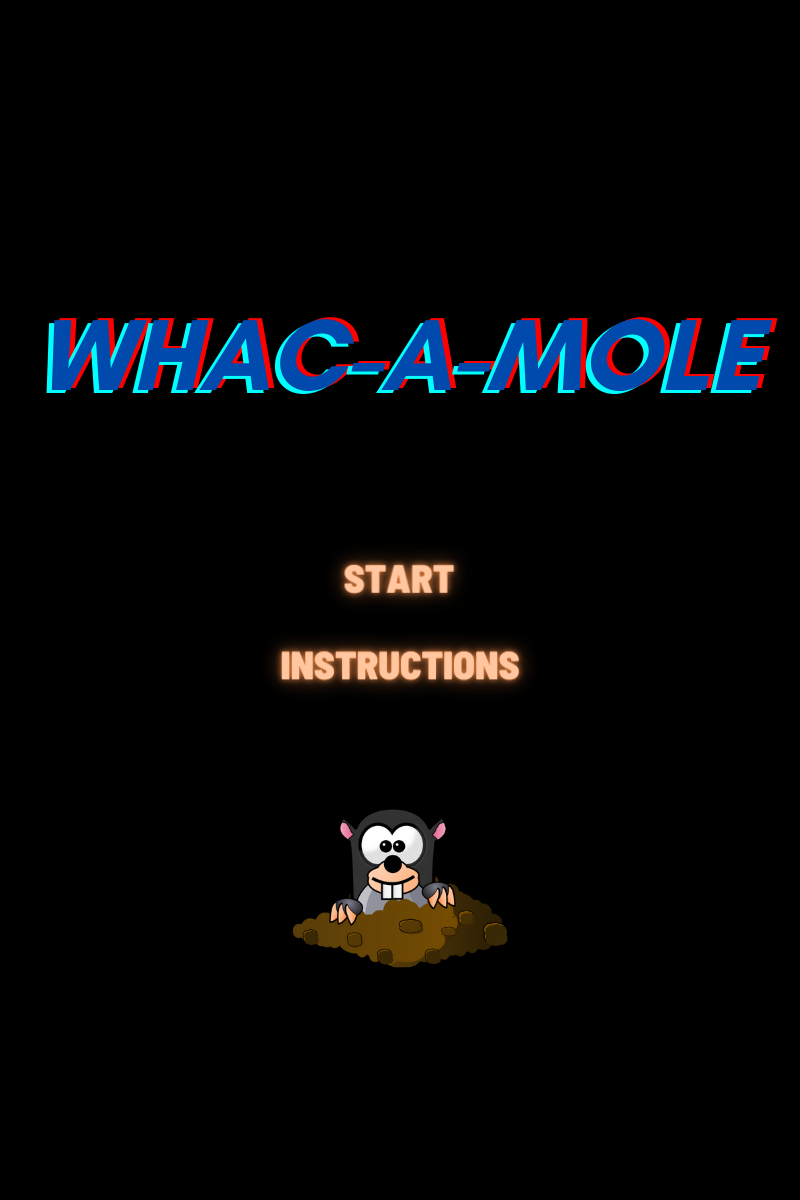
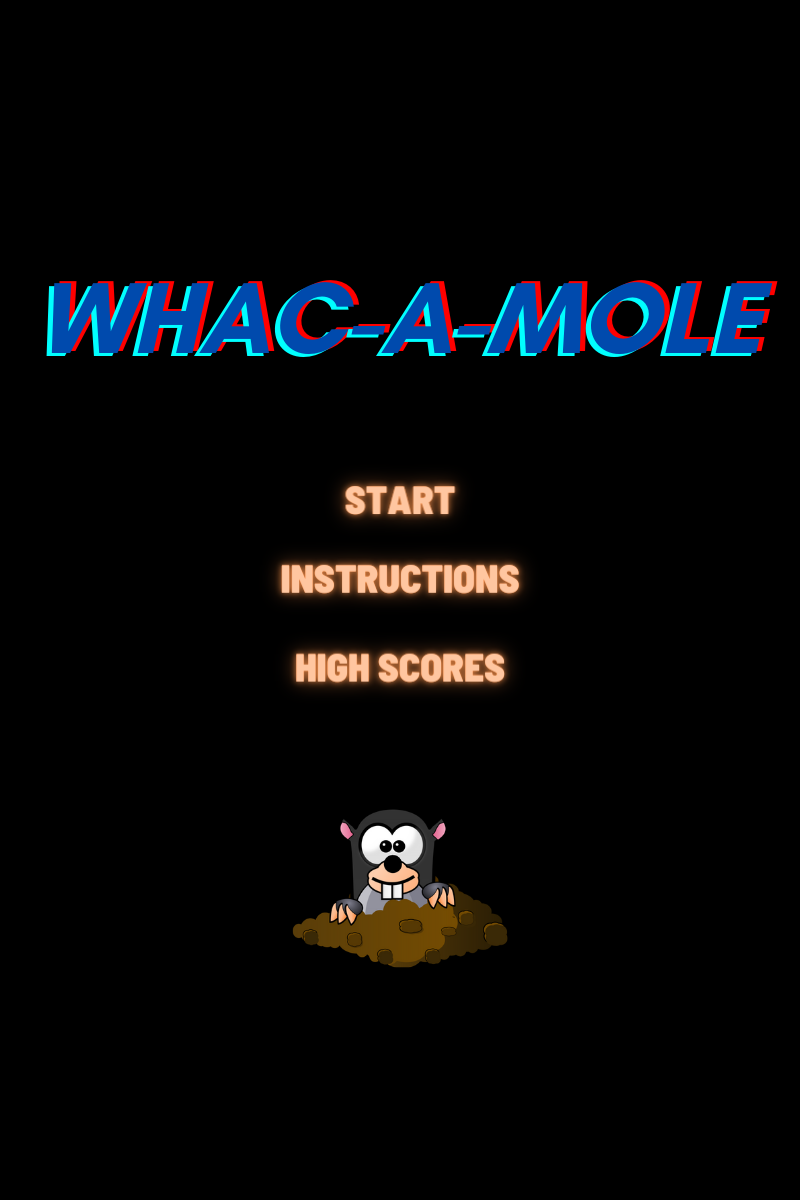
Add high scores page

Changed region(s): [[0.0625, 0.2158, 0.9688, 0.3392], [0.3438, 0.4625, 0.6562, 0.5858], [0.4062, 0.4008, 0.5938, 0.4317]]

diff --git a/public/scripts/p1Scripts/p1WhacAMole.js b/public/scripts/p1Scripts/p1WhacAMole.js
@@ -9,6 +9,7 @@ var holeImg;
 var bgImg;
 var startScreenImg;
 var gameOverScreenImg;
+var highScoresScreenImg;
 
 var inputBox;
 var submitBtn;
@@ -24,7 +25,7 @@ var numOfHoles = 6;
 var randomMole; // Initialized when creating new holes and then updates everytime the mole is hit or when it hides.
 var molePicked = false; // The purpose of this is to ensure that the mole is set only once while it's still active.
 
-var screen = 0; // Screen 0 = Start screen, 1 = start game, 2 = game over, 3 = tutorial Mode
+var screen = 0; // Screen 0 = Start screen, 1 = start game, 2 = game over, 3 = tutorial Mode, 4 = players' high scores 
 
 var tutorialMode = false;
 var messageTime = 0;
@@ -56,6 +57,7 @@ function preload() {
     moleImg = loadImage('../images/project 1/mole.png'); // Load the image of the mole
     startScreenImg = loadImage('../images/project 1/startScreen.png'); // Load game start screen image
     gameOverScreenImg = loadImage('../images/project 1/gameOverScreen.png'); // Load game over screen image
+    highScoresScreenImg = loadImage('../images/project 1/HighScoresScreen.png'); // Load game over screen image
 }
 
 function setup() {
@@ -92,6 +94,8 @@ function draw() {
         gameOver();
     } else if (screen == 3) {
         tutorial();
+    } else if (screen == 4) {
+        highScores();
     }
 }
 ///////////////////////////////////////////////////////////////////////////////////
@@ -324,14 +328,25 @@ function startScreen() {
         "topRightY": 0
     }
 
+    let highScoreBtn = {
+        "bottomLeftX": 0,
+        "bottomLeftY": 0,
+        "bottomRightX": 0,
+        "bottomRightY": 0,
+        "topLeftX": 0,
+        "topLeftY": 0,
+        "topRightX": 0,
+        "topRightY": 0
+    }
+
     startBtn.bottomRightX = width / 2 + width / 2 * 0.13;
-    startBtn.bottomRightY = height / 2;
+    startBtn.bottomRightY = height / 2 - height / 2 * 0.13;
     startBtn.topRightX = width / 2 + width / 2 * 0.13;
-    startBtn.topRightY = height / 2 - height / 2 * 0.07;
+    startBtn.topRightY = height / 2 - height / 2 * 0.20;
     startBtn.bottomLeftX = width / 2 - width / 2 * 0.14;
-    startBtn.bottomLeftY = height / 2;
+    startBtn.bottomLeftY = height / 2 - height / 2 * 0.13;
     startBtn.topLeftX = width / 2 - width / 2 * 0.14;
-    startBtn.topLeftY = height / 2 - height / 2 * 0.07;
+    startBtn.topLeftY = height / 2 - height / 2 * 0.20;
 
     //fill(255, 0, 0);
     //rect(startBtn.bottomRightX, startBtn.bottomRightY, 10, 10);
@@ -341,6 +356,43 @@ function startScreen() {
     //rect(startBtn.bottomLeftX, startBtn.bottomLeftY, 10, 10);
     //fill(0, 0, 255);
     //rect(startBtn.topLeftX, startBtn.topLeftY, 10, 10);
+
+    instructionsBtn.bottomRightX = width / 2 + width / 2 * 0.30;
+    instructionsBtn.bottomRightY = height / 2;
+    instructionsBtn.topRightX = width / 2 + width / 2 * 0.30;
+    instructionsBtn.topRightY = height / 2 - height / 2 * 0.07;
+    instructionsBtn.bottomLeftX = width / 2 - width / 2 * 0.31;
+    instructionsBtn.bottomLeftY = height / 2 ;
+    instructionsBtn.topLeftX = width / 2 - width / 2 * 0.31;
+    instructionsBtn.topLeftY = height / 2 - height / 2 * 0.07;
+
+    //fill(255, 0, 0);
+    //rect(instructionsBtn.bottomRightX, instructionsBtn.bottomRightY, 10, 10);
+    //fill(255, 255, 0);
+    //rect(instructionsBtn.topRightX, instructionsBtn.topRightY, 10, 10);
+    //fill(255, 0, 255);
+    //rect(instructionsBtn.topLeftX, instructionsBtn.topLeftY, 10, 10);
+    //fill(0, 0, 255);
+    //rect(instructionsBtn.bottomLeftX, instructionsBtn.bottomLeftY, 10, 10);
+
+    highScoreBtn.bottomRightX = width / 2 + width / 2 * 0.27;
+    highScoreBtn.bottomRightY = height / 2 + height / 2 * 0.13;
+    highScoreBtn.topRightX = width / 2 + width / 2 * 0.27;
+    highScoreBtn.topRightY = height / 2 + height / 2 * 0.08;
+    highScoreBtn.bottomLeftX = width / 2 - width / 2 * 0.31;
+    highScoreBtn.bottomLeftY = height / 2 + height / 2 * 0.13;
+    highScoreBtn.topLeftX = width / 2 - width / 2 * 0.31;
+    highScoreBtn.topLeftY = height / 2 + height / 2 * 0.08;
+
+    //fill(255, 0, 0);
+    //rect(highScoreBtn.bottomRightX, highScoreBtn.bottomRightY, 10, 10);
+    //fill(255, 255, 0);
+    //rect(highScoreBtn.topRightX, highScoreBtn.topRightY, 10, 10);
+    //fill(255, 0, 255);
+    //rect(highScoreBtn.topLeftX, highScoreBtn.topLeftY, 10, 10);
+    //fill(0, 0, 255);
+    //rect(highScoreBtn.bottomLeftX, highScoreBtn.bottomLeftY, 10, 10);
+
 
     // If the start button is clicked.
     if (screen == 0 && mouseIsPressed && mouseX >= startBtn.topLeftX && mouseX <= startBtn.topRightX
@@ -352,24 +404,6 @@ function startScreen() {
         startTime = gameTimeLimit; // The time when the game has started. Countdown start time.
     }
 
-    instructionsBtn.bottomRightX = width / 2 + width / 2 * 0.30;
-    instructionsBtn.bottomRightY = height / 2 + height / 2 * 0.13;
-    instructionsBtn.topRightX = width / 2 + width / 2 * 0.30;
-    instructionsBtn.topRightY = height / 2 + height / 2 * 0.08;
-    instructionsBtn.bottomLeftX = width / 2 - width / 2 * 0.31;
-    instructionsBtn.bottomLeftY = height / 2 + height / 2 * 0.13;
-    instructionsBtn.topLeftX = width / 2 - width / 2 * 0.31;
-    instructionsBtn.topLeftY = height / 2 + height / 2 * 0.08;
-
-    //fill(255, 0, 0);
-    //rect(instructionsBtn.bottomRightX, instructionsBtn.bottomRightY, 10, 10);
-    //fill(255, 255, 0);
-    //rect(instructionsBtn.topRightX, instructionsBtn.topRightY, 10, 10);
-    //fill(255, 0, 255);
-    //rect(instructionsBtn.topLeftX, instructionsBtn.topLeftY, 10, 10);
-    //fill(0, 0, 255);
-    //rect(instructionsBtn.bottomLeftX, instructionsBtn.bottomLeftY, 10, 10);
-
     // If the instructions button is clicked
     if (screen == 0 && mouseIsPressed && mouseX >= instructionsBtn.topLeftX && mouseX <= instructionsBtn.topRightX
         && mouseY >= instructionsBtn.topLeftY && mouseY <= instructionsBtn.bottomLeftY) {
@@ -379,6 +413,15 @@ function startScreen() {
         screen = 3; // Tutorial mode is on.
         startTime = gameTimeLimit;
         tutorialMode = true;
+    }
+
+    // If the high scores button is clicked.
+    if (screen == 0 && mouseIsPressed && mouseX >= highScoreBtn.topLeftX && mouseX <= highScoreBtn.topRightX
+        && mouseY >= highScoreBtn.topLeftY && mouseY <= highScoreBtn.bottomLeftY) {
+        // Play a sound when player presses start.
+        mic.whackSound.play();
+        mic.whackSound.currentTime = 0;
+        screen = 4; // Go to high scores screen.
     }
     pop();
 }
@@ -479,6 +522,67 @@ function gameOver() {
         screen = 0; // Start screen.
         inputBox.hide();
         submitBtn.hide();
+        document.getElementById('leaderboard').style.visibility = "hidden";
+        resetGame();
+    }
+}
+
+// Display the leaderboard table.
+function highScores() {
+    clear();
+    image(highScoresScreenImg, 0, 0, width, height);
+
+    let scoreBoard = document.getElementById('leaderboard');
+
+    // Show the leaderboard
+    document.getElementById('leaderboard').style.visibility = "visible";
+    // Only get the leaderboard once 
+    if (!leaderBoardRequested) {
+        leaderboard.getScores();
+        scoreBoard.style.top = '70%';
+        scoreBoard.style.height = '65%';
+        leaderBoardRequested = true;
+    }
+
+    let backToMenuBtn = {
+        "bottomLeftX": 0,
+        "bottomLeftY": 0,
+        "bottomRightX": 0,
+        "bottomRightY": 0,
+        "topLeftX": 0,
+        "topLeftY": 0,
+        "topRightX": 0,
+        "topRightY": 0
+    }
+
+    backToMenuBtn.bottomRightX = width / 2 + width / 2 * 0.23;
+    backToMenuBtn.bottomRightY = height / 2 - height / 2 * 0.4;
+    backToMenuBtn.topRightX = width / 2 + width / 2 * 0.23;
+    backToMenuBtn.topRightY = height / 2 - height / 2 * 0.5;
+    backToMenuBtn.topLeftX = width / 2 - width / 2 * 0.24;
+    backToMenuBtn.topLeftY = height / 2 - height / 2 * 0.5;
+    backToMenuBtn.bottomLeftX = width / 2 - width / 2 * 0.24;
+    backToMenuBtn.bottomLeftY = height / 2 - height / 2 * 0.4;
+
+    //fill(255, 0, 0);
+    //rect(backToMenuBtn.bottomRightX, backToMenuBtn.bottomRightY, 10, 10);
+    //fill(255, 255, 0);
+    //rect(backToMenuBtn.topRightX, backToMenuBtn.topRightY, 10, 10);
+    //fill(255, 0, 255);
+    //rect(backToMenuBtn.topLeftX, backToMenuBtn.topLeftY, 10, 10);
+    //fill(0, 0, 255);
+    //rect(backToMenuBtn.bottomLeftX, backToMenuBtn.bottomLeftY, 10, 10);
+
+    // If user presses the 'back to menu button'.
+    if (screen == 4 && mouseIsPressed && mouseX >= backToMenuBtn.bottomLeftX && mouseX <= backToMenuBtn.bottomRightX
+        && mouseY >= backToMenuBtn.topRightY && mouseY <= backToMenuBtn.bottomRightY) {
+        // Play a sound when player presses the button.
+        mic.whackSound.play();
+        mic.whackSound.currentTime = 0;
+        screen = 0; // Start screen.
+        // Change it back to what it was originally. This matches whats in p1Styles for Leaderboard.
+        scoreBoard.style.top = '80%';
+        scoreBoard.style.height = '30%';
         document.getElementById('leaderboard').style.visibility = "hidden";
         resetGame();
     }
